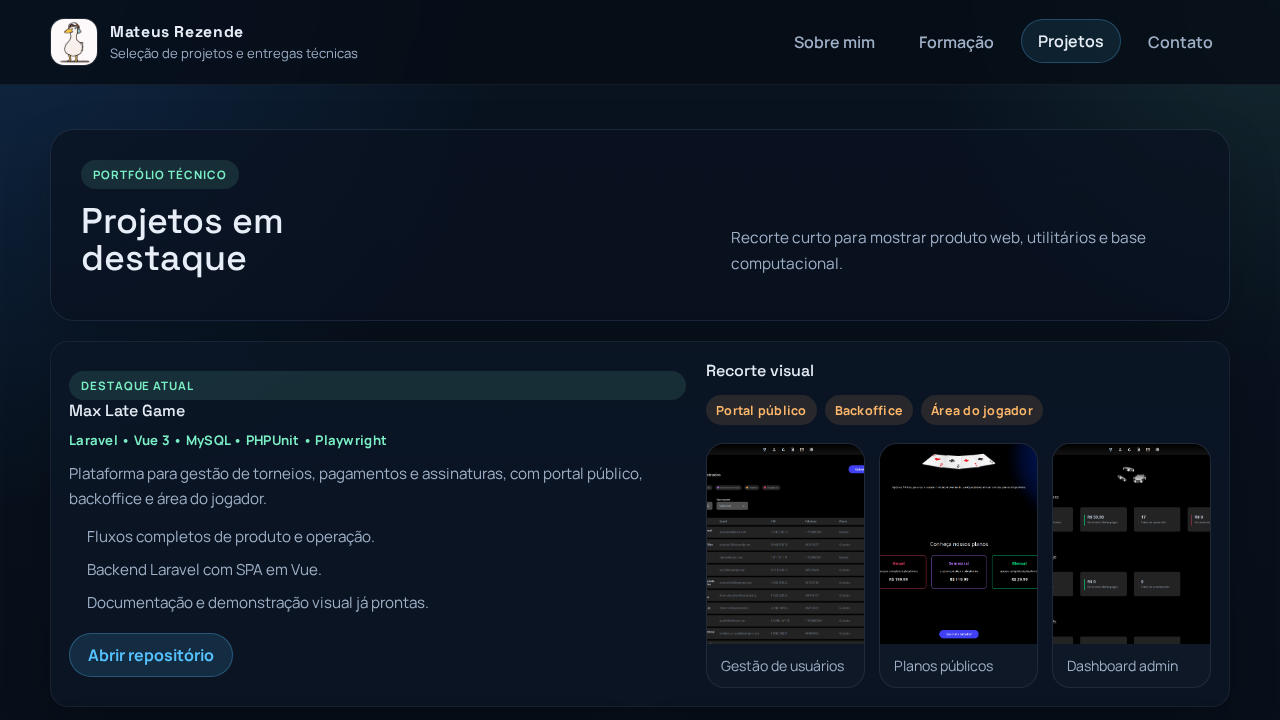
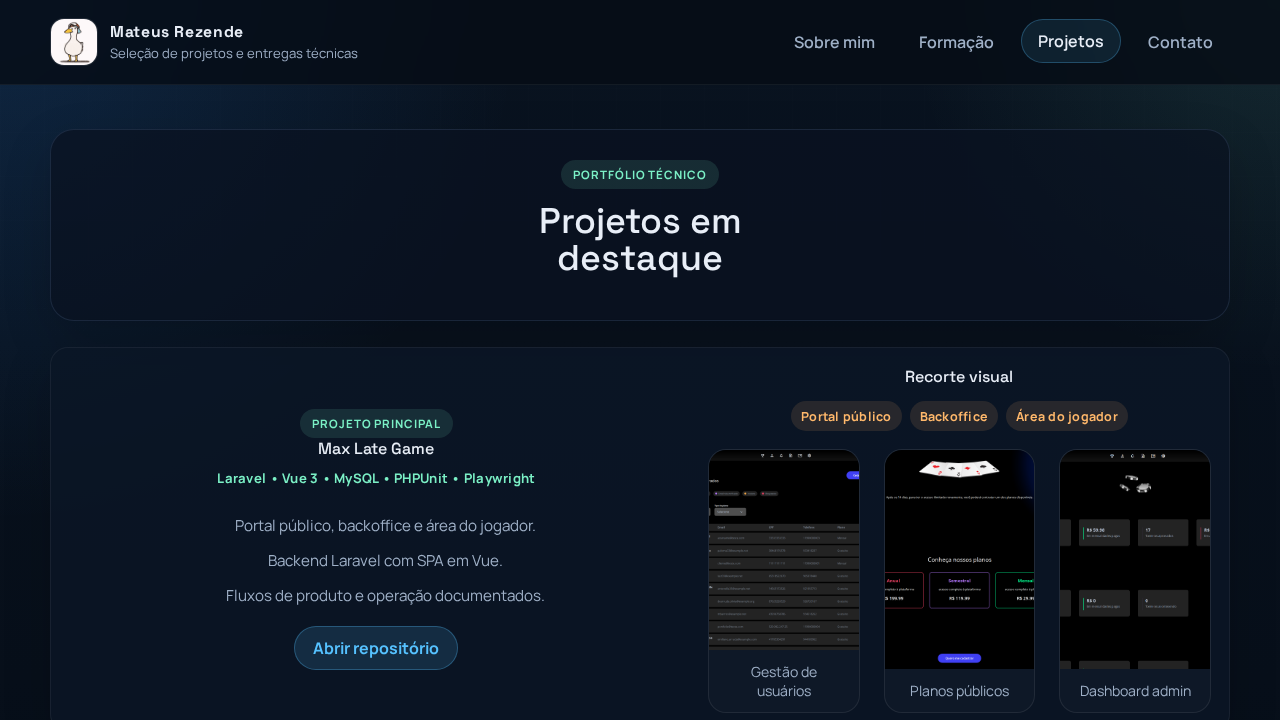
fix: better texts and alignment

Changed region(s): [[0.0312, 0.4889, 0.9688, 0.9778], [0.4062, 0.2139, 0.9062, 0.3972], [0.0625, 0.2139, 0.2188, 0.3972]]

diff --git a/projetos/index.html b/projetos/index.html
@@ -27,7 +27,7 @@
             </nav>
         </div>
     </header>
-    <main>
+    <main class="projects-page">
         <div class="site-shell">
             <section class="page-intro glass-card hero-copy">
                 <div class="section-heading">
@@ -35,32 +35,26 @@
                         <span class="eyebrow">Portfólio técnico</span>
                         <h1>Projetos em destaque</h1>
                     </div>
-                    <p>
-                        Recorte curto para mostrar produto web, utilitários e base computacional.
-                    </p>
                 </div>
             </section>
 
             <section class="section">
                 <div class="project-grid">
                     <article class="project-card glass-card featured">
-                        <div>
-                            <span class="eyebrow">Destaque atual</span>
+                        <div class="featured-copy">
+                            <span class="eyebrow">Projeto principal</span>
                             <h2>Max Late Game</h2>
                             <div class="project-meta">Laravel • Vue 3 • MySQL • PHPUnit • Playwright</div>
-                            <p>
-                                Plataforma para gestão de torneios, pagamentos e assinaturas, com portal público, backoffice e área do jogador.
-                            </p>
                             <ul class="bullet-list">
-                                <li>Fluxos completos de produto e operação.</li>
+                                <li>Portal público, backoffice e área do jogador.</li>
                                 <li>Backend Laravel com SPA em Vue.</li>
-                                <li>Documentação e demonstração visual já prontas.</li>
+                                <li>Fluxos de produto e operação documentados.</li>
                             </ul>
                             <div class="project-links">
                                 <a class="project-link primary" href="https://github.com/mmrezende/auten-max-late-game" target="_blank" rel="noreferrer">Abrir repositório</a>
                             </div>
                         </div>
-                        <div>
+                        <div class="featured-visuals">
                             <h3>Recorte visual</h3>
                             <div class="chip-row">
                                 <span class="chip">Portal público</span>
@@ -68,18 +62,18 @@
                                 <span class="chip">Área do jogador</span>
                             </div>
                             <div class="screenshot-grid">
-                                <figure class="screenshot-card">
+                                <a class="screenshot-card screenshot-trigger" href="#mlg-users" aria-label="Abrir imagem ampliada de gestão de usuários">
                                     <img src="/assets/max-late-game/04-admin-users.png" alt="Gestão de usuários do projeto Max Late Game" />
                                     <span>Gestão de usuários</span>
-                                </figure>
-                                <figure class="screenshot-card">
+                                </a>
+                                <a class="screenshot-card screenshot-trigger" href="#mlg-plans" aria-label="Abrir imagem ampliada de planos públicos">
                                     <img src="/assets/max-late-game/02-public-home-plans.png" alt="Planos públicos do projeto Max Late Game" />
                                     <span>Planos públicos</span>
-                                </figure>
-                                <figure class="screenshot-card">
+                                </a>
+                                <a class="screenshot-card screenshot-trigger" href="#mlg-dashboard" aria-label="Abrir imagem ampliada do dashboard administrativo">
                                     <img src="/assets/max-late-game/03-admin-dashboard.png" alt="Dashboard administrativo do projeto Max Late Game" />
                                     <span>Dashboard admin</span>
-                                </figure>
+                                </a>
                             </div>
                         </div>
                     </article>
@@ -111,6 +105,18 @@
                         </div>
                     </article>
                 </div>
+            </section>
+
+            <section class="image-modals" aria-hidden="true">
+                <a class="image-modal" id="mlg-users" href="/projetos/" aria-label="Fechar visualização ampliada">
+                    <img src="/assets/max-late-game/04-admin-users.png" alt="Gestão de usuários do projeto Max Late Game ampliada" />
+                </a>
+                <a class="image-modal" id="mlg-plans" href="/projetos/" aria-label="Fechar visualização ampliada">
+                    <img src="/assets/max-late-game/02-public-home-plans.png" alt="Planos públicos do projeto Max Late Game ampliada" />
+                </a>
+                <a class="image-modal" id="mlg-dashboard" href="/projetos/" aria-label="Fechar visualização ampliada">
+                    <img src="/assets/max-late-game/03-admin-dashboard.png" alt="Dashboard administrativo do projeto Max Late Game ampliada" />
+                </a>
             </section>
         </div>
     </main>

diff --git a/index.css b/index.css
@@ -385,11 +385,21 @@ main {
     grid-template-columns: repeat(2, minmax(0, 1fr));
 }
 
+.projects-page .page-intro .section-heading {
+    align-items: center;
+    text-align: center;
+    justify-content: center;
+}
+
+.projects-page .page-intro .section-heading p {
+    margin-inline: auto;
+}
+
 .project-card.featured {
     grid-column: 1 / -1;
     display: grid;
     grid-template-columns: 1.1fr 0.9fr;
-    gap: 20px;
+    gap: 24px;
     background: rgba(11, 22, 38, 0.82);
     align-items: stretch;
 }
@@ -398,6 +408,21 @@ main {
     display: flex;
     flex-direction: column;
     justify-content: center;
+}
+
+.projects-page .featured-copy {
+    align-items: center;
+    text-align: center;
+}
+
+.projects-page .featured-copy .bullet-list {
+    width: min(100%, 34rem);
+    margin-inline: auto;
+}
+
+.projects-page .featured-visuals {
+    align-items: center;
+    text-align: center;
 }
 
 .project-card p,
@@ -518,7 +543,7 @@ ol.clean-list {
 
 .lead-grid {
     display: grid;
-    gap: 14px;
+    gap: 16px;
 }
 
 .lead-grid p {
@@ -527,6 +552,23 @@ ol.clean-list {
 
 .two-column-text p + p {
     margin-top: 16px;
+}
+
+.section {
+    margin-top: 26px;
+}
+
+.stats-grid,
+.highlight-grid,
+.project-grid,
+.contact-grid,
+.info-grid,
+.timeline-grid,
+.summary-grid,
+.mini-grid,
+.compact-grid,
+.screenshot-grid {
+    gap: 24px;
 }
 
 .footer {
@@ -547,21 +589,19 @@ ol.clean-list {
 
 .compact-grid {
     display: grid;
-    gap: 14px;
     grid-template-columns: repeat(3, minmax(0, 1fr));
 }
 
 .bullet-list {
     display: grid;
-    gap: 8px;
-    margin-top: 12px;
+    gap: 10px;
+    margin-top: 14px;
     padding-left: 18px;
     color: var(--text-muted);
 }
 
 .screenshot-grid {
     display: grid;
-    gap: 14px;
     grid-template-columns: repeat(3, minmax(0, 1fr));
     margin-top: 18px;
     flex: 1;
@@ -574,6 +614,9 @@ ol.clean-list {
     border-radius: var(--radius-md);
     border: 1px solid rgba(255, 255, 255, 0.08);
     background: rgba(255, 255, 255, 0.02);
+    text-decoration: none;
+    cursor: zoom-in;
+    transition: transform 180ms ease, box-shadow 180ms ease, border-color 180ms ease;
 }
 
 .screenshot-card img {
@@ -581,6 +624,18 @@ ol.clean-list {
     aspect-ratio: 16 / 9;
     object-fit: cover;
     flex: 1;
+    transition: transform 220ms ease, filter 220ms ease;
+}
+
+.screenshot-card:hover {
+    transform: translateY(-2px);
+    border-color: rgba(86, 194, 255, 0.28);
+    box-shadow: 0 20px 40px rgba(0, 0, 0, 0.22);
+}
+
+.screenshot-card:hover img {
+    transform: scale(1.06);
+    filter: saturate(1.02) contrast(1.02);
 }
 
 .screenshot-card span {
@@ -588,6 +643,35 @@ ol.clean-list {
     padding: 12px 14px;
     color: var(--text-muted);
     font-size: 0.88rem;
+}
+
+.image-modals {
+    position: relative;
+}
+
+.image-modal {
+    position: fixed;
+    inset: 0;
+    z-index: 40;
+    display: none;
+    align-items: center;
+    justify-content: center;
+    padding: 24px;
+    background: rgba(5, 11, 20, 0.86);
+    backdrop-filter: blur(12px);
+    text-decoration: none;
+}
+
+.image-modal:target {
+    display: flex;
+}
+
+.image-modal img {
+    width: min(1100px, 100%);
+    max-height: calc(100vh - 48px);
+    object-fit: contain;
+    border-radius: 18px;
+    box-shadow: 0 26px 80px rgba(0, 0, 0, 0.45);
 }
 
 @media (min-width: 1025px) {
@@ -619,6 +703,22 @@ ol.clean-list {
     .section-heading {
         align-items: flex-start;
         flex-direction: column;
+    }
+
+    .projects-page .page-intro .section-heading {
+        text-align: left;
+        align-items: flex-start;
+    }
+
+    .projects-page .featured-copy,
+    .projects-page .featured-visuals {
+        text-align: left;
+        align-items: flex-start;
+    }
+
+    .projects-page .featured-copy .bullet-list {
+        width: 100%;
+        margin-inline: 0;
     }
 }
 
@@ -687,6 +787,10 @@ ol.clean-list {
     .screenshot-card img {
         aspect-ratio: 16 / 8;
         max-height: 150px;
+    }
+
+    .image-modal {
+        padding: 14px;
     }
 
     .project-links {

diff --git a/formacao/index.html b/formacao/index.html
@@ -33,11 +33,11 @@
                         <span class="eyebrow">Resumo</span>
                         <h1>Formação e trajetória</h1>
                     </div>
-                    <p>Um recorte curto da minha formação, experiência e repertório técnico.</p>
+                    <p>Formação, experiência e repertório técnico em um recorte direto.</p>
                 </div>
                 <div class="lead-grid muted">
-                    <p>Freelancer desde 2021, com passagem por contexto corporativo, estágio e projetos independentes.</p>
-                    <p>Minha base em Laravel é forte, mas o perfil é mais amplo: backend, frontend, integração, produto e fundamentos de computação.</p>
+                    <p>Freelancer desde 2021, com atuação em contexto corporativo, estágio e projetos independentes.</p>
+                    <p>Minha atuação passa por PHP e Laravel, além de backend, frontend, integração, produto e fundamentos de computação.</p>
                     <p>Cursando Ciência da Computação na UNINTER, com interesse constante em lógica, arquitetura e melhoria contínua.</p>
                 </div>
             </section>
@@ -140,20 +140,20 @@
                     <div>
                         <h2>Certificações</h2>
                     </div>
-                    <p>Complementos que reforçam base técnica e disciplina de estudo.</p>
+                    <p>Conhecimentos resumidos por certificação.</p>
                 </div>
                 <div class="compact-grid certifications-grid">
                     <article class="highlight-card">
+                        <strong class="card-title">OCP</strong>
+                        <p>Java avançado, orientação a objetos e APIs.</p>
+                    </article>
+                    <article class="highlight-card">
                         <strong class="card-title">OCFA</strong>
-                        <p>Certificação complementar que reforça fundamentos e consistência de aprendizado.</p>
+                        <p>Fundamentos, arquitetura e boas práticas.</p>
                     </article>
                     <article class="highlight-card">
                         <strong class="card-title">Linux Essentials</strong>
-                        <p>Base em sistemas Linux, terminal e organização de ambiente de desenvolvimento.</p>
-                    </article>
-                    <article class="highlight-card">
-                        <strong class="card-title">Perfil de estudo</strong>
-                        <p>Aprendizado contínuo como parte da rotina profissional.</p>
+                        <p>Terminal, permissões, processos e ambiente.</p>
                     </article>
                 </div>
             </section>

diff --git a/index.html b/index.html
@@ -32,7 +32,7 @@
                     <span class="eyebrow">Desenvolvedor pleno</span>
                     <h1>Software com visão de produto e repertório amplo.</h1>
                     <p>
-                        Atuo com backend, frontend, integrações, arquitetura e experiência do usuário. Laravel é uma das minhas bases mais fortes, mas não define sozinho o meu perfil.
+                        Atuo com backend, frontend, integrações, arquitetura e experiência do usuário.
                     </p>
                     <p>
                         Trabalho com sistemas proprietários desde 2021 e valorizo versatilidade técnica, clareza de implementação e boa leitura de produto.
@@ -72,7 +72,7 @@
                     </div>
 
                     <p class="hero-note">
-                        Gosto de entender como as coisas funcionam. Isso aparece no código, na arquitetura e na forma como penso produto.
+                        Viciado em resolver problemas. Gosto de entender como as coisas funcionam.
                     </p>
                 </aside>
             </section>
